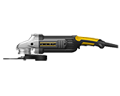
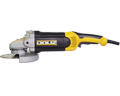
New products

Changed region(s): [[0.0, 0.3125, 1.0, 0.6562]]

diff --git a/bolaixiWX/prodlist.html b/bolaixiWX/prodlist.html
@@ -126,6 +126,13 @@
 					<p class="p2">角向磨光机</p>
 					<span class="pbg"></span>
 				</li>
+				<li onclick="location.href='prods/jiaomo/prod_BA850.html'">
+					<img src="prods/img/BA850_min.png"/>
+					<p>BA850&nbsp;125毫米-1050瓦</p>
+					<p class="p2">侧开关角向磨光机</p>
+					<span class="pbg"></span>
+				</li>
+				
 			</ul>
 			
 		</div>
@@ -201,11 +208,62 @@
 					<p class="p2">锂电冲击扳手</p>
 					<span class="pbg"></span>
 				</li>
+				<li onclick="location.href='prods/lidian/prod_BD510.html'">
+					<img src="prods/img/BD510_min.png"/>
+					<p>BD510  21伏 </p>
+					<p class="p2">有刷四极强磁锂电冲击扳手</p>
+					<span class="pbg"></span>
+				</li>
+				<li onclick="location.href='prods/lidian/prod_BD520.html'">
+					<img src="prods/img/BD520_min.png"/>
+					<p>BD520  21伏 </p>
+					<p class="p2">无刷锂电冲击扳手</p>
+					<span class="pbg"></span>
+				</li>
+				<li onclick="location.href='prods/lidian/prod_BD618.html'">
+					<img src="prods/img/BD618_min.png"/>
+					<p>BD618 10毫米 </p>
+					<p class="p2">锂电双速钻</p>
+					<span class="pbg"></span>
+				</li>
+				<li onclick="location.href='prods/lidian/prod_BD622.html'">
+					<img src="prods/img/BD622_min.png"/>
+					<p>BD622 10毫米-12伏 </p>
+					<p class="p2">锂电双速钻</p>
+					<span class="pbg"></span>
+				</li>
 				
 			</ul>
 			
 		</div>
 		
+		<hr />
+		<h2>&gt;&gt;锤钻系列</h2>
+		
+		<div class="typelist">
+			
+			<ul>
+				<li onclick="location.href='prods/chuizuan/prod_BA280.html'">
+					<img src="prods/img/BA280_min.png"/>
+					<p>BA280 800瓦</p>
+					<p class="p2">3功能电锤</p>
+					<span class="pbg"></span>
+				</li>
+				<li onclick="location.href='prods/chuizuan/prod_BA650.html'">
+					<img src="prods/img/BA650_min.png"/>
+					<p>BA650 10MM-450瓦</p>
+					<p class="p2">手电钻</p>
+					<span class="pbg"></span>
+				</li>
+				<li onclick="location.href='prods/chuizuan/prod_BA660.html'">
+					<img src="prods/img/BA660_min.png"/>
+					<p>BA660 13MM-650瓦</p>
+					<p class="p2">手电钻</p>
+					<span class="pbg"></span>
+				</li>
+			</ul>
+			
+		</div>
 		
 		
 		

diff --git a/bolaixiWX/prods/tchuizuan.html b/bolaixiWX/prods/tchuizuan.html
@@ -1,0 +1,69 @@
+<!DOCTYPE html>
+<html>
+	<head>
+		<meta charset="utf-8">
+		<meta name="viewport" content="width=device-width, user-scalable=no" />
+		<meta name="apple-mobile-web-app-capable" content="yes" />
+		<meta name="apple-mobile-web-app-status-bar-style" content="black" />
+		<meta content="telephone=no" name="format-detection" />
+		<meta content="email=no" name="format-detection" />
+		<title>多利仕|角磨系列</title>
+		<link rel="stylesheet" type="text/css" href="../css/global.css"/>
+		<link rel="stylesheet" type="text/css" href="css/type.css"/>
+	</head>
+	<body>
+		<header>
+			<nav>
+				<div class="logoDv">
+					<div class="nav-toggle" id="popMenu"><span></span>
+					</div>
+
+					<p class="navTitle">角磨系列</p>
+
+				</div>
+			</nav>
+
+			<div id="menu" class="menu">
+				<ul>
+					<li><a href="../index.html">产品展示</a>
+					</li>
+					<li><a href="../join.html">联系我们</a>
+					</li>
+				</ul>
+			</div>
+
+		</header>
+		
+		
+		<div class="typelist">
+			
+			<ul>
+				<li onclick="location.href='chuizuan/prod_BA280.html'">
+					<img src="img/BA280_min.png"/>
+					<p>BA280 800瓦</p>
+					<p class="p2">3功能电锤</p>
+					<span class="pbg"></span>
+				</li>
+				<li onclick="location.href='chuizuan/prod_BA650.html'">
+					<img src="img/BA650_min.png"/>
+					<p>BA650 10MM-450瓦</p>
+					<p class="p2">手电钻</p>
+					<span class="pbg"></span>
+				</li>
+				<li onclick="location.href='chuizuan/prod_BA660.html'">
+					<img src="img/BA660_min.png"/>
+					<p>BA660 13MM-650瓦</p>
+					<p class="p2">手电钻</p>
+					<span class="pbg"></span>
+				</li>
+			</ul>
+			
+		</div>
+		
+		
+		<footer style="">
+			Copyright&nbsp;&copy;&nbsp;2015&nbsp;所有版权归多利仕所有
+		</footer>
+		<script src="../js/func.js" type="text/javascript" charset="utf-8"></script>
+	</body>
+</html>

diff --git a/bolaixiWX/prods/tlidian.html b/bolaixiWX/prods/tlidian.html
@@ -81,7 +81,30 @@
 					<p class="p2">锂电冲击扳手</p>
 					<span class="pbg"></span>
 				</li>
-				
+				<li onclick="location.href='lidian/prod_BD510.html'">
+					<img src="img/BD510_min.png"/>
+					<p>BD510  21伏 </p>
+					<p class="p2">有刷四极强磁锂电冲击扳手</p>
+					<span class="pbg"></span>
+				</li>
+				<li onclick="location.href='lidian/prod_BD520.html'">
+					<img src="img/BD520_min.png"/>
+					<p>BD520  21伏 </p>
+					<p class="p2">无刷锂电冲击扳手</p>
+					<span class="pbg"></span>
+				</li>
+				<li onclick="location.href='lidian/prod_BD618.html'">
+					<img src="img/BD618_min.png"/>
+					<p>BD618 10毫米 </p>
+					<p class="p2">锂电双速钻</p>
+					<span class="pbg"></span>
+				</li>
+				<li onclick="location.href='lidian/prod_BD622.html'">
+					<img src="img/BD622_min.png"/>
+					<p>BD622 10毫米-12伏 </p>
+					<p class="p2">锂电双速钻</p>
+					<span class="pbg"></span>
+				</li>
 			</ul>
 			
 		</div>

diff --git a/bolaixiWX/prods/tjiaomo.html b/bolaixiWX/prods/tjiaomo.html
@@ -7,7 +7,7 @@
 		<meta name="apple-mobile-web-app-status-bar-style" content="black" />
 		<meta content="telephone=no" name="format-detection" />
 		<meta content="email=no" name="format-detection" />
-		<title>多利仕|角磨系列</title>
+		<title>多利仕|锤钻系列</title>
 		<link rel="stylesheet" type="text/css" href="../css/global.css"/>
 		<link rel="stylesheet" type="text/css" href="css/type.css"/>
 	</head>
@@ -18,7 +18,7 @@
 					<div class="nav-toggle" id="popMenu"><span></span>
 					</div>
 
-					<p class="navTitle">角磨系列</p>
+					<p class="navTitle">锤钻系列</p>
 
 				</div>
 			</nav>
